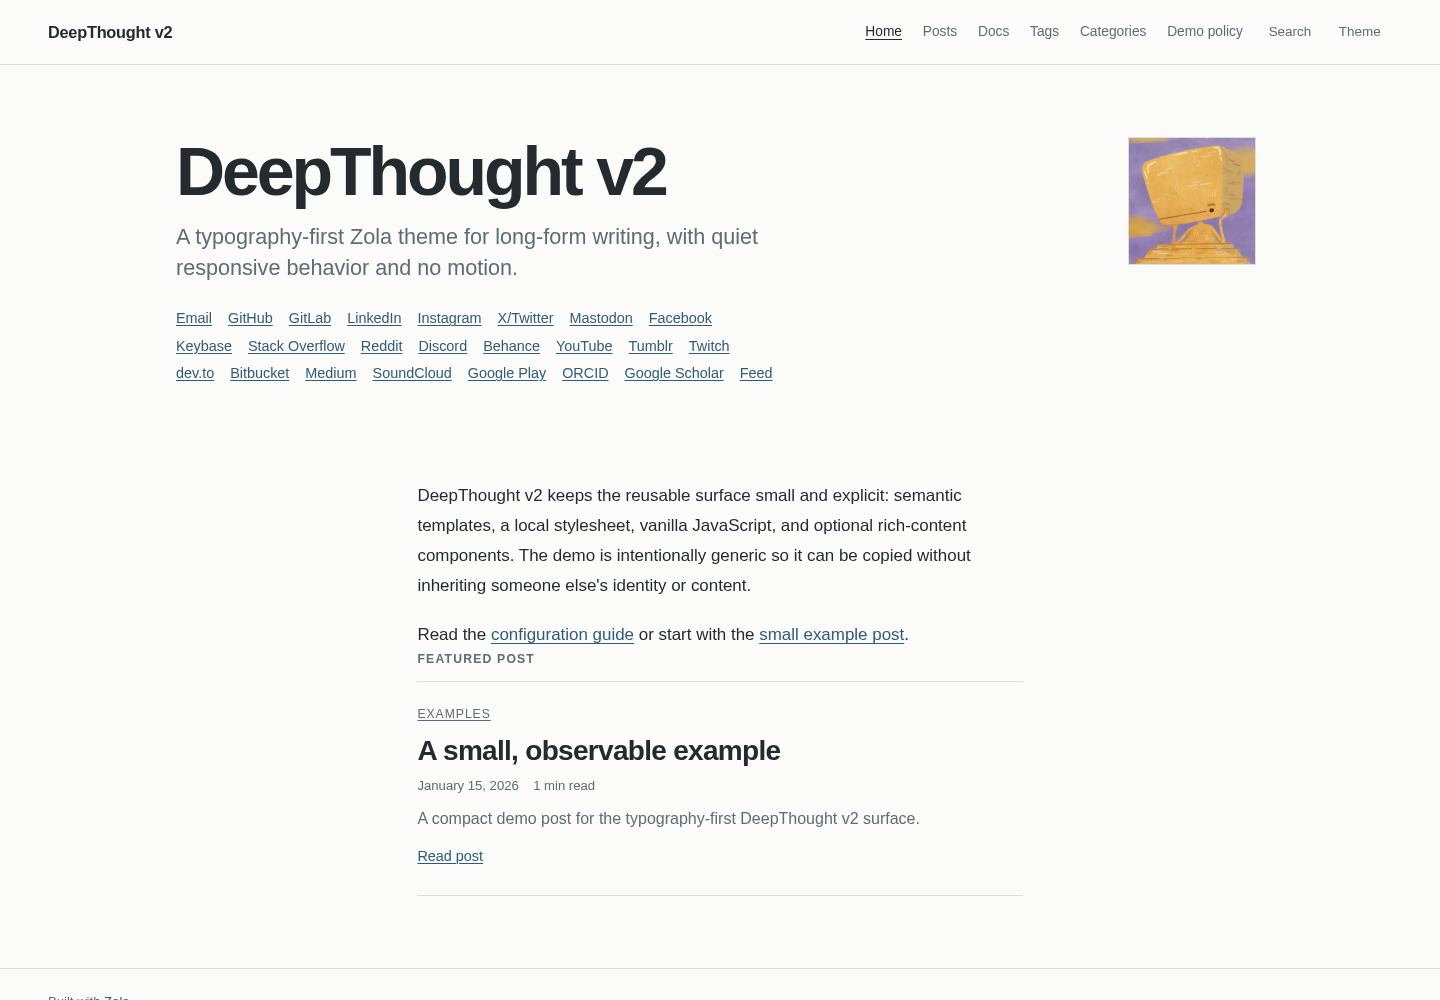
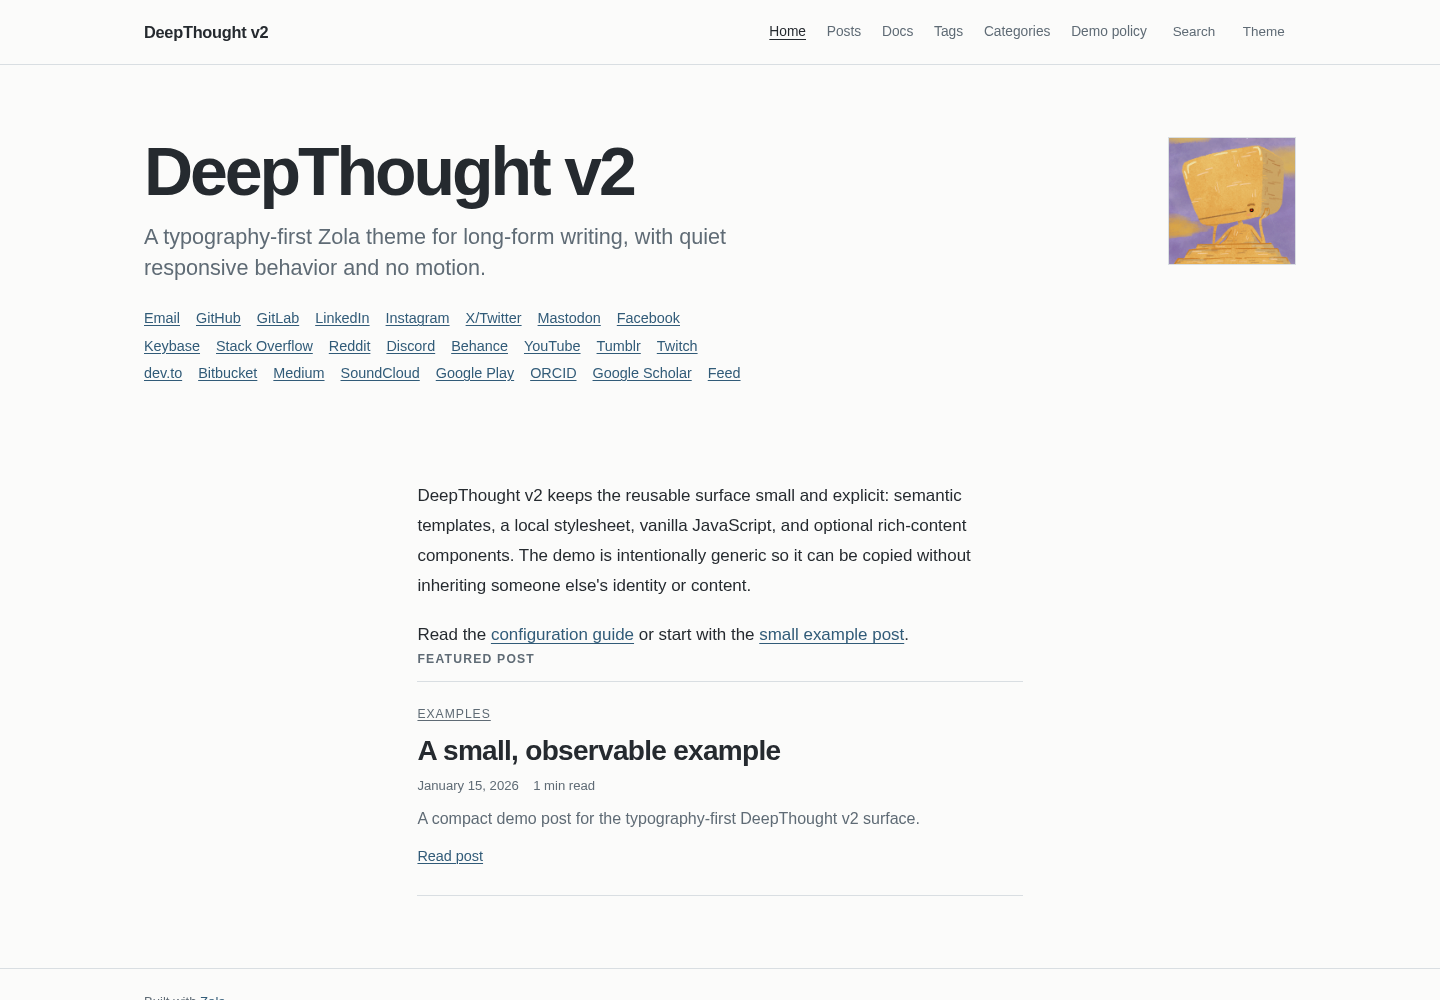
fix: improve wide-screen layout and footer placement

diff --git a/tests/browser_regressions.js b/tests/browser_regressions.js
@@ -383,8 +383,8 @@ async function exerciseArticle(page, base, report) {
       return { layout: { x: layout.x, width: layout.width }, aside: { width: aside.width }, article: { x: article.x, width: article.width } };
     });
     assert.ok(collapsed.aside.width <= 44, "collapsed sidebar becomes a narrow control");
-    assert.ok(collapsed.layout.width < expanded.layout.width, "collapsed layout releases sidebar width");
-    assert.ok(collapsed.article.x < expanded.article.x, "article recenters into released left space");
+    assert.ok(Math.abs(collapsed.layout.width - expanded.layout.width) < 1, "collapsed layout keeps the percentage-based outer shell");
+    assert.ok(Math.abs(collapsed.article.x - expanded.article.x) < 1, "article remains centered when contents collapses");
     assert.ok(Math.abs(collapsed.article.width - expanded.article.width) < 1, "reading width stays stable");
     await desktopToc.locator("summary").click();
     assert.strictEqual(await desktopToc.evaluate(el => el.open), true, "click expands desktop contents");
@@ -468,6 +468,67 @@ async function exercisePolicy(page, base, report) {
   report.functional.policy = policy;
 }
 
+async function exerciseWideLayout(page, base, report) {
+  await page.setViewportSize({ width: 2560, height: 1440 });
+  await page.goto(`${base}${routes[0][1]}`, { waitUntil: "domcontentloaded" });
+  const layout = await page.evaluate(() => {
+    const rect = selector => {
+      const box = document.querySelector(selector).getBoundingClientRect();
+      return { x: box.x, right: box.right, width: box.width };
+    };
+    return {
+      viewport: innerWidth,
+      shell: rect(".home-layout"),
+      intro: rect(".home-intro"),
+      copy: rect(".home-intro__copy"),
+      portrait: rect(".home-intro__portrait"),
+    };
+  });
+  const leftGutter = layout.shell.x / layout.viewport;
+  const rightGutter = (layout.viewport - layout.shell.right) / layout.viewport;
+  assert.ok(leftGutter >= 0.095 && leftGutter <= 0.105, "wide homepage uses a 10% left gutter");
+  assert.ok(rightGutter >= 0.095 && rightGutter <= 0.105, "wide homepage uses a 10% right gutter");
+  assert.ok(Math.abs(layout.intro.x - layout.shell.x) <= 1, "homepage identity starts at the shell edge");
+  assert.ok(Math.abs(layout.intro.right - layout.shell.right) <= 1, "homepage identity ends at the shell edge");
+  assert.ok(Math.abs(layout.copy.x - layout.shell.x) <= 1, "homepage title aligns with the percentage gutter");
+  assert.ok(Math.abs(layout.portrait.right - layout.shell.right) <= 1, "homepage portrait aligns with the percentage gutter");
+
+  await page.goto(`${base}${articleRoute}`, { waitUntil: "domcontentloaded" });
+  const articleLayout = await page.evaluate(() => {
+    const rect = selector => {
+      const box = document.querySelector(selector).getBoundingClientRect();
+      return { x: box.x, right: box.right, width: box.width };
+    };
+    return {
+      viewport: innerWidth,
+      layout: rect(".reading-layout"),
+      aside: rect(".article-aside"),
+      article: rect(".reading-column"),
+    };
+  });
+  const articleLeftGutter = articleLayout.layout.x / articleLayout.viewport;
+  const articleRightGutter = (articleLayout.viewport - articleLayout.layout.right) / articleLayout.viewport;
+  const articleCenter = articleLayout.article.x + articleLayout.article.width / 2;
+  assert.ok(articleLeftGutter >= 0.095 && articleLeftGutter <= 0.105, "wide article layout uses a 10% left gutter");
+  assert.ok(articleRightGutter >= 0.095 && articleRightGutter <= 0.105, "wide article layout uses a 10% right gutter");
+  assert.ok(Math.abs(articleCenter - articleLayout.viewport / 2) <= 1, "wide article remains centered in the fluid layout");
+  assert.ok(articleLayout.article.width >= 680, "wide article uses more horizontal space without exceeding its readable measure");
+  assert.ok(Math.abs(articleLayout.aside.x - articleLayout.layout.x) <= 1, "wide contents rail starts at the percentage gutter");
+  report.functional.wideLayout = { home: layout, article: articleLayout };
+}
+
+async function exerciseFooterPlacement(page, base, report) {
+  await page.setViewportSize({ width: 1440, height: 1000 });
+  await page.goto(`${base}${policyRoute}`, { waitUntil: "domcontentloaded" });
+  const footer = await page.evaluate(() => {
+    const box = document.querySelector(".site-footer").getBoundingClientRect();
+    return { top: box.top, bottom: box.bottom, height: box.height, viewport: innerHeight };
+  });
+  assert.ok(footer.height > 0, "footer is visible on a short page");
+  assert.ok(Math.abs(footer.bottom - footer.viewport) <= 1, "footer sits at the viewport bottom on a short page");
+  report.functional.footerPlacement = footer;
+}
+
 async function main() {
   assert.ok(fs.existsSync(output), `rendered output does not exist: ${output}`);
   const { server, base } = await startServer(output);
@@ -524,6 +585,8 @@ async function main() {
     await exerciseArticle(page, base, report);
     await exerciseRichContent(page, base, report);
     await exercisePolicy(page, base, report);
+    await exerciseWideLayout(page, base, report);
+    await exerciseFooterPlacement(page, base, report);
 
     assert.strictEqual(report.matrix.length, 54, "responsive matrix covers 9 pages x 3 viewports x 2 themes");
     assert.deepStrictEqual(report.pageErrors, [], "browser pages have no JavaScript errors");

diff --git a/static/site.css b/static/site.css
@@ -41,6 +41,8 @@ html {
 }
 
 body {
+  display: flex;
+  flex-direction: column;
   min-width: 18rem;
   min-height: 100vh;
   margin: 0;
@@ -127,7 +129,7 @@ img {
 }
 
 .site-shell {
-  width: min(84rem, calc(100% - 2rem));
+  width: 80%;
   margin-inline: auto;
 }
 
@@ -263,7 +265,7 @@ img {
 }
 
 .home-layout {
-  width: min(72rem, calc(100% - 2rem));
+  width: 80%;
   margin-inline: auto;
 }
 
@@ -272,7 +274,7 @@ img {
   grid-template-columns: minmax(0, 1fr) 8.5rem;
   gap: clamp(2rem, 7vw, 7rem);
   align-items: start;
-  max-width: 68rem;
+  width: 100%;
   margin-inline: auto;
   margin-bottom: clamp(3rem, 8vw, 6rem);
 }
@@ -282,6 +284,7 @@ img {
 }
 
 .home-intro__portrait {
+  justify-self: end;
   width: 8rem;
   height: 8rem;
   object-fit: cover;
@@ -485,20 +488,28 @@ img {
 
 .reading-layout {
   display: grid;
-  grid-template-columns: minmax(11rem, 14rem) minmax(0, 68ch);
-  gap: clamp(2rem, 5vw, 5rem);
+  grid-template-columns: minmax(2.75rem, 18%) minmax(0, 1fr) minmax(2.75rem, 18%);
+  gap: 4%;
   align-items: start;
-  width: min(calc(100% - 2rem), calc(68ch + 14rem + 5rem));
+  width: 80%;
   margin-inline: auto;
 }
 
 .reading-layout:has(.desktop-toc:not([open])) {
-  grid-template-columns: 2.75rem minmax(0, 68ch);
-  gap: 1rem;
-  width: min(calc(100% - 2rem), calc(2.75rem + 68ch + 1rem));
+  grid-template-columns: minmax(2.75rem, 18%) minmax(0, 1fr) minmax(2.75rem, 18%);
+  gap: 4%;
+  width: 80%;
+}
+
+.reading-layout:has(.desktop-toc:not([open])) .article-aside {
+  width: 2.75rem;
 }
 
 .reading-column {
+  grid-column: 2;
+  justify-self: center;
+  width: 100%;
+  max-width: 78ch;
   min-width: 0;
 }
 
@@ -560,7 +571,10 @@ img {
 
 .article-aside {
   position: sticky;
+  grid-column: 1;
+  justify-self: start;
   top: 1.5rem;
+  width: min(100%, 14rem);
   min-width: 0;
   color: var(--muted);
   font-size: 0.86rem;
@@ -855,6 +869,8 @@ img {
 }
 
 .site-footer {
+  flex: 0 0 auto;
+  margin-top: auto;
   border-top: 1px solid var(--border);
   color: var(--muted);
   font-size: 0.82rem;
@@ -963,9 +979,18 @@ img {
   }
 }
 
+@media (max-width: 64rem) {
+  .reading-layout,
+  .reading-layout:has(.desktop-toc:not([open])) {
+    grid-template-columns: minmax(2.75rem, 14rem) minmax(0, 1fr);
+    gap: 4%;
+    width: 90%;
+  }
+}
+
 @media (max-width: 46rem) {
   .site-shell {
-    width: calc(100% - 2rem);
+    width: 90%;
   }
 
   .site-header__inner {
@@ -1006,9 +1031,15 @@ img {
     height: 5.5rem;
   }
 
-  .reading-layout {
+  .reading-layout,
+  .reading-layout:has(.desktop-toc:not([open])) {
     grid-template-columns: 1fr;
     gap: 2.5rem;
+    width: 90%;
+  }
+
+  .reading-column {
+    grid-column: 1;
   }
 
   .article-aside {

diff --git a/tests/capture_screenshots.js b/tests/capture_screenshots.js
@@ -122,7 +122,7 @@ async function main() {
       return requestRoute.abort("blockedbyclient");
     });
     const page = await context.newPage();
-    for (const [name, width, height] of [["mobile", 390, 844], ["desktop", 1440, 1000]]) {
+    for (const [name, width, height] of [["mobile", 390, 844], ["desktop", 1440, 1000], ["wide", 2560, 1440]]) {
       await page.setViewportSize({ width, height });
       for (const theme of ["light", "dark"]) {
         await page.goto(`${base}${screenshotRoute}`, { waitUntil: "domcontentloaded" });

diff --git a/README.md b/README.md
@@ -10,6 +10,7 @@ DeepThought v2 is a typography-first Zola theme for long-form writing. It keeps 
 | --- | --- | --- |
 | Mobile, 390px | [light](screenshots/deepthought-v2-mobile-light.png) | [dark](screenshots/deepthought-v2-mobile-dark.png) |
 | Desktop, 1440px | [light](screenshots/deepthought-v2-desktop-light.png) | [dark](screenshots/deepthought-v2-desktop-dark.png) |
+| Wide, 2560px | [light](screenshots/deepthought-v2-wide-light.png) | [dark](screenshots/deepthought-v2-wide-dark.png) |
 
 These are screenshots of the standalone demo generated from this checkout, not a mockup or a consuming site.
 
